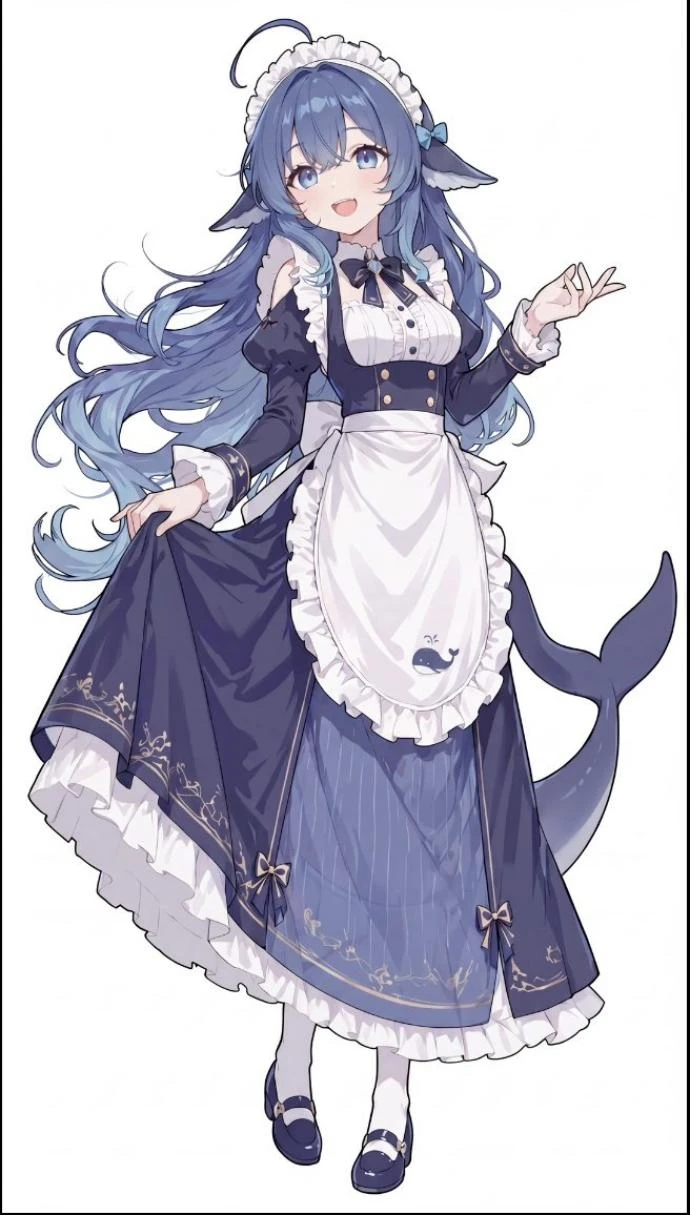
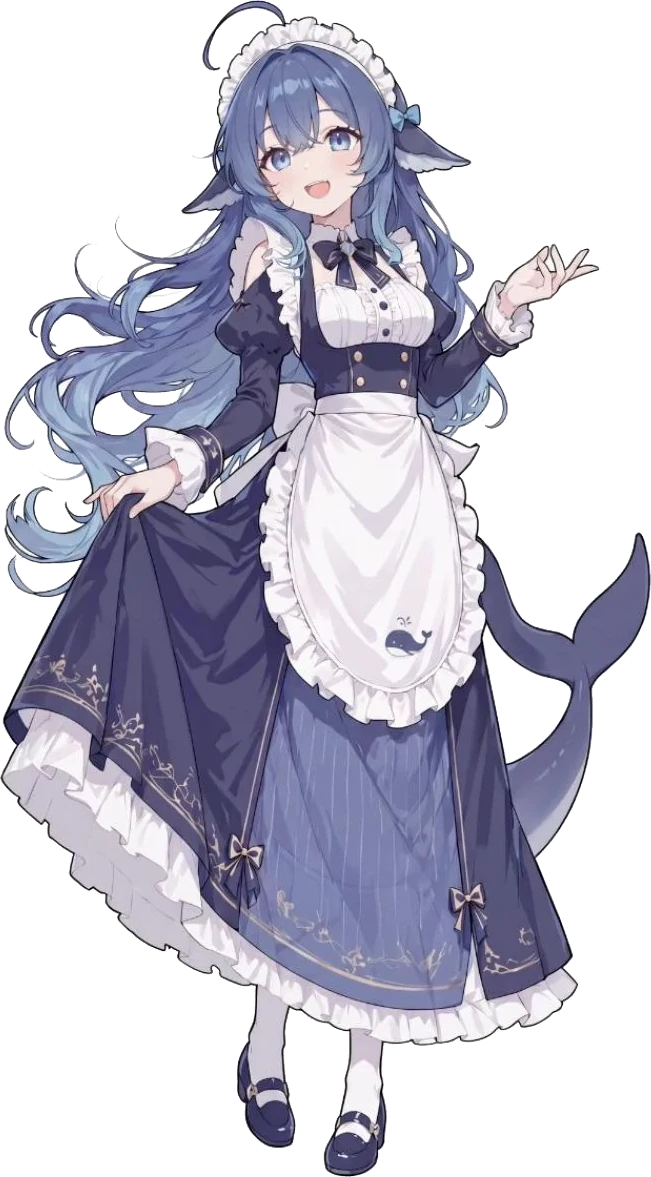
Cut the white background out of the DeepSeek mascot
Flood fill from the frame edges, plus neutral-white islands trapped between
hair strands: the character's own whites are slightly pink, so the hue tells
the apron and socks apart from the background.

diff --git a/styles.css b/styles.css
@@ -879,34 +879,14 @@ html:not(.no-js) .tabs { display: flex; }
   background: radial-gradient(circle at 42% 38%, #4d6bfe 0%, rgba(77, 107, 254, .35) 46%, transparent 70%);
   animation: breathe 6s ease-in-out infinite;
 }
-/* Маскот в белой рамке: у картинки светлый фон, поэтому она оформлена
-   как постер, а не вклеена в тёмный макет. */
 .ds-mascot {
   position: relative;
-  margin: 0;
-  width: min(280px, 72vw);
-  border-radius: 20px;
-  background: #fff;
-  box-shadow: 0 18px 50px rgba(77, 107, 254, .35);
+  width: min(300px, 78vw);
+  height: auto;
+  filter: drop-shadow(0 18px 40px rgba(77, 107, 254, .5));
   animation: float 7s ease-in-out infinite alternate;
 }
-.ds-mascot > img:first-child {
-  display: block;
-  width: 100%;
-  height: auto;
-  border-radius: inherit;
-}
-.ds-whale {
-  position: absolute;
-  right: -14px;
-  bottom: -14px;
-  width: 52px;
-  height: 52px;
-  padding: 8px;
-  border-radius: 14px;
-  background: var(--bg);
-  box-shadow: 0 6px 18px rgba(0, 0, 0, .4);
-}
+
 .ds-heart {
   position: absolute;
   font-size: 1.125rem;

diff --git a/index.html b/index.html
@@ -457,10 +457,7 @@
       <div class="ds card reveal">
         <div class="ds-visual">
           <span class="ds-ring" aria-hidden="true"></span>
-          <figure class="ds-mascot">
-            <img src="images/deepseek-mascot.webp" alt="Маскот DeepSeek: девушка-кит в переднике с китом на кармане" width="690" height="1215" loading="lazy">
-            <img class="ds-whale" src="logos/deepseek.svg" alt="" width="52" height="52" aria-hidden="true">
-          </figure>
+          <img class="ds-mascot" src="images/deepseek-mascot.webp" alt="Маскот DeepSeek: девушка-кит в переднике с китом на кармане" width="651" height="1177" loading="lazy">
           <span class="ds-heart ds-h1" aria-hidden="true">♥</span>
           <span class="ds-heart ds-h2" aria-hidden="true">♥</span>
           <span class="ds-heart ds-h3" aria-hidden="true">♥</span>
